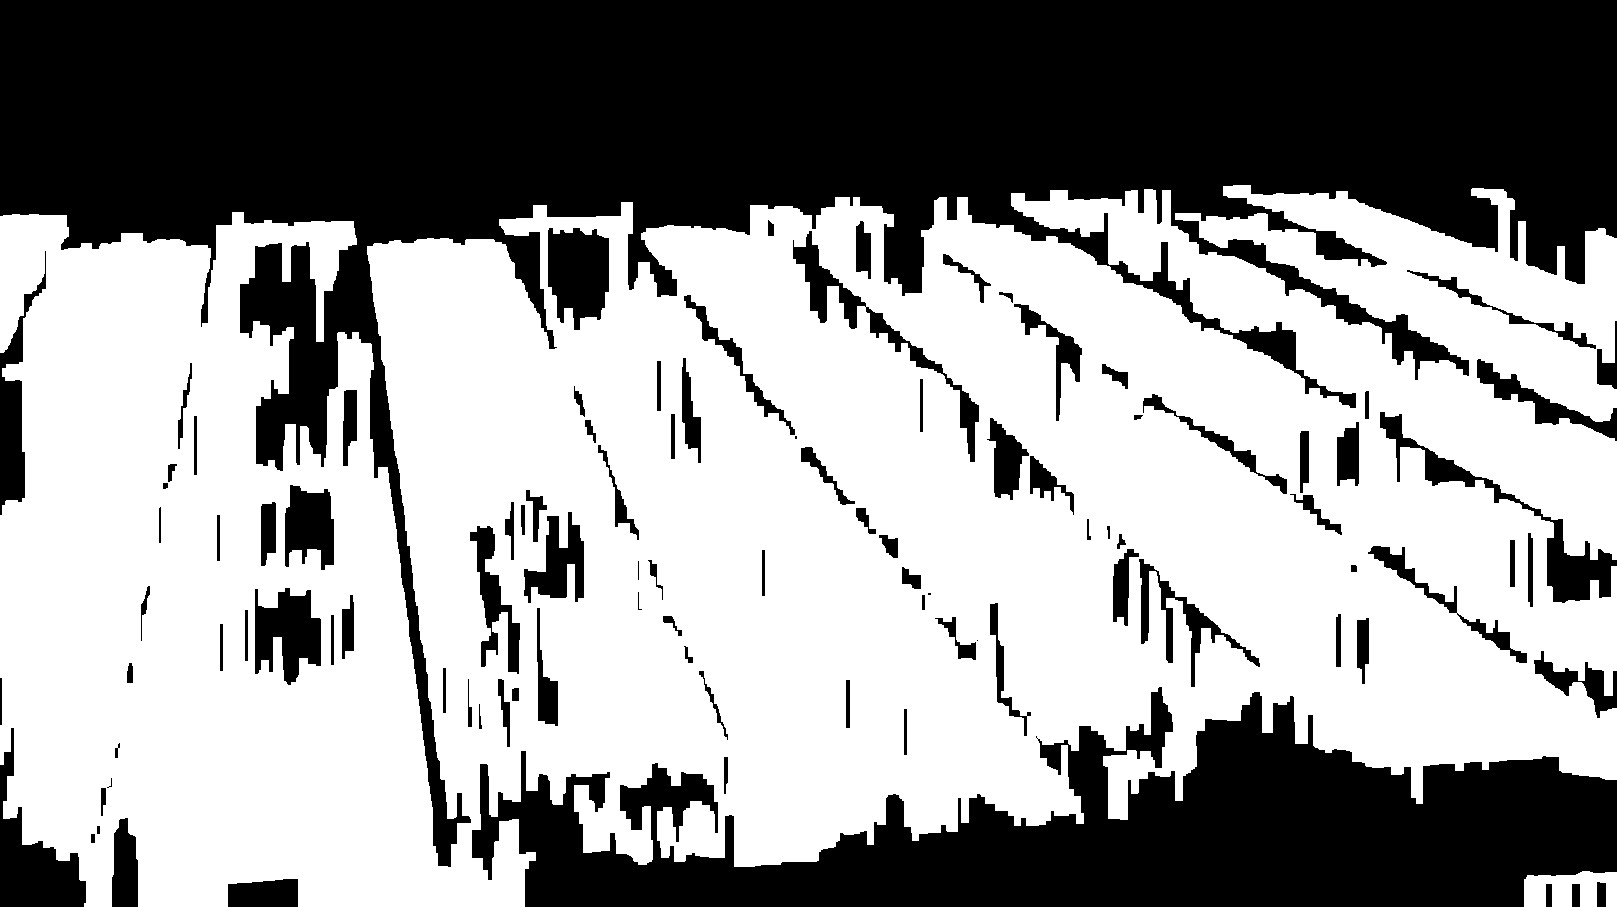
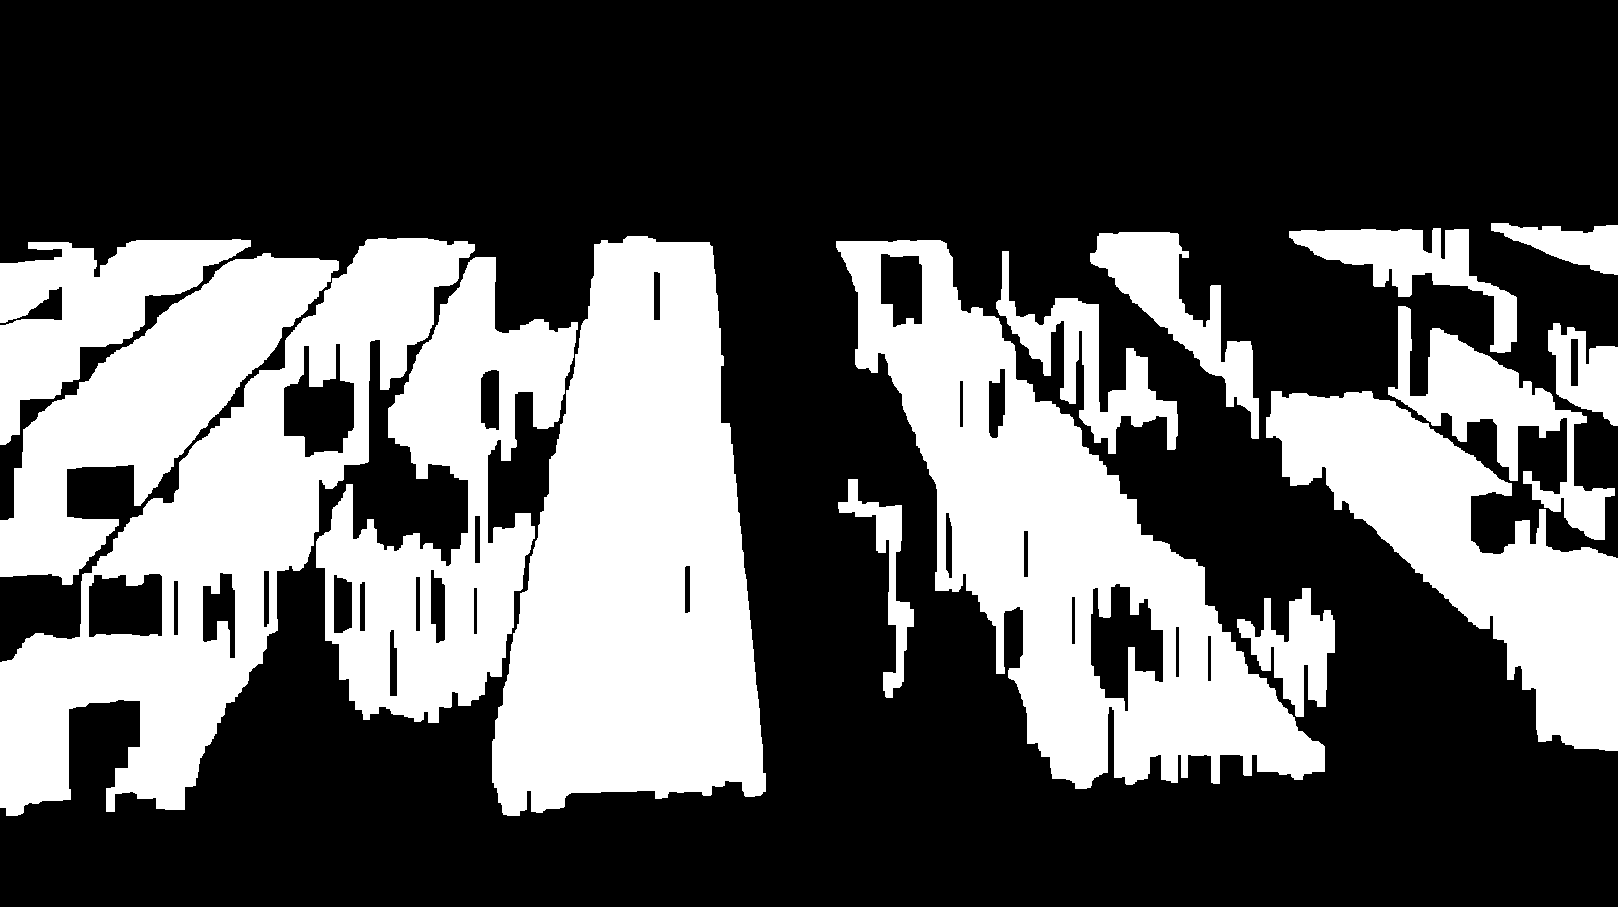
improvement detection lines

diff --git a/detect_lines.py b/detect_lines.py
@@ -4,6 +4,8 @@
 # Regressione Matematica.
 import numpy as np 
 import cv2
+
+img_name = './input_videos/image.png'
 # -------------------------------------------------------------------------------------------------------------------------------
  
             ####################################
@@ -91,14 +93,14 @@ def get_grass_masks(balanced_image):
     # --- MASCHERA CHIARA (Light) ---
     # Alziamo la saturazione minima (da 40 a 60) per ignorare il verde sbiadito
     # Alziamo il valore minimo (da 100 a 150) per prendere solo il "brillante"
-    lower_light = np.array([35, 60, 155]) 
+    lower_light = np.array([35, 90, 145]) 
     upper_light = np.array([55, 255, 255])
     mask_light = cv2.inRange(hsv, lower_light, upper_light)
     
     # --- MASCHERA SCURA (Dark) ---
     # Restringiamo il valore massimo (da 100 a 140) per non sovrapporci troppo al chiaro
-    lower_dark = np.array([35, 30, 20])
-    upper_dark = np.array([60, 255, 100])
+    lower_dark = np.array([35, 50, 20])
+    upper_dark = np.array([55, 255, 100])
     mask_dark = cv2.inRange(hsv, lower_dark, upper_dark)
     
   # --- PULIZIA MORFOLOGICA POTENZIATA ---
@@ -174,6 +176,40 @@ def get_stable_lines(edges):
 # -------------------------------------------------------------------------------------------------------------------------------
 
             ###################################
+            ##     LINEE ESTREME DEL PRATO   ##
+            ###################################
+
+def get_extreme_lines(lines, width):
+    if not lines:
+        return None, None
+
+    leftmost_line = None
+    rightmost_line = None
+    
+    min_x = width  # Partiamo dal massimo possibile
+    max_x = 0      # Partiamo dal minimo possibile
+
+    for line in lines:
+        x1, y1, x2, y2 = line
+        
+        # Usiamo la media della X per determinare la posizione della linea
+        avg_x = (x1 + x2) / 2
+        
+        # Verifica se è la più a sinistra
+        if avg_x < min_x:
+            min_x = avg_x
+            leftmost_line = line
+            
+        # Verifica se è la più a destra
+        if avg_x > max_x:
+            max_x = avg_x
+            rightmost_line = line
+
+    return leftmost_line, rightmost_line
+
+# -------------------------------------------------------------------------------------------------------------------------------
+
+            ###################################
             ##    DISEGNO LINEE SUL PRATO    ##
             ###################################
 
@@ -195,14 +231,27 @@ def draw_grass_lines(image, lines):
         return image
 
     height, width, _ = image.shape
+    
     for line in lines:
+        # 1. Recuperiamo le coordinate del segmento rilevato
         x1, y1, x2, y2 = line
-        # Estendere la linea fino ai bordi superiore e inferiore dell'immagine
+        
+        # 2. DISEGNO DEI PUNTI ORIGINALI (Punti di inizio e fine rilevati)
+        # Disegniamo dei cerchietti rossi per vederli bene
+        # cv2.circle(immagine, centro, raggio, colore, spessore)
+        cv2.circle(image, (int(x1), int(y1)), 5, (0, 0, 255), -1) # Punto 1 (Rosso)
+        cv2.circle(image, (int(x2), int(y2)), 5, (255, 0, 0), -1) # Punto 2 (Blu)
+
+        # 3. ESTENSIONE DELLA LINEA
         top_x = extrapolate_line_point(x1, y1, x2, y2, 0)
         bottom_x = extrapolate_line_point(x1, y1, x2, y2, height - 1)
+        
         if top_x is None or bottom_x is None:
             continue
+            
+        # 4. DISEGNO DELLA LINEA ESTRAPOLATA (Verde)
         cv2.line(image, (top_x, 0), (bottom_x, height - 1), (0, 255, 0), 2)
+        
     return image
 
 # -------------------------------------------------------------------------------------------------------------------------------
@@ -213,7 +262,7 @@ def draw_grass_lines(image, lines):
 
 if __name__ == "__main__":
     # Carica un'immagine di esempio
-    image = cv2.imread('./input_videos/match.png')
+    image = cv2.imread(img_name)
 
     # 1) Bilanciamento luci
     preprocess_imaged = preprocess_image(image)
@@ -230,7 +279,18 @@ if __name__ == "__main__":
     # 4) Rilevamento linee stabili
     grass_lines = get_stable_lines(edges_light)
 
-    output_image = draw_grass_lines(image, grass_lines)
+    # ... dopo aver ottenuto 'grass_lines' dalla funzione get_stable_lines ...
+
+    height, width = image.shape[:2]
+    line_left, line_right = get_extreme_lines(grass_lines, width)
+
+    # Creiamo una lista con solo le due linee trovate per poter usare la tua funzione draw
+    extreme_lines = []
+    if line_left is not None: extreme_lines.append(line_left)
+    if line_right is not None: extreme_lines.append(line_right)
+
+    # Disegna il risultato
+    output_image = draw_grass_lines(image.copy(), grass_lines)
     
     # Visualizza questo per capire se le linee sono dritte
     cv2.imwrite('output_videos/debug/1_edges_test.png', edges_light)
